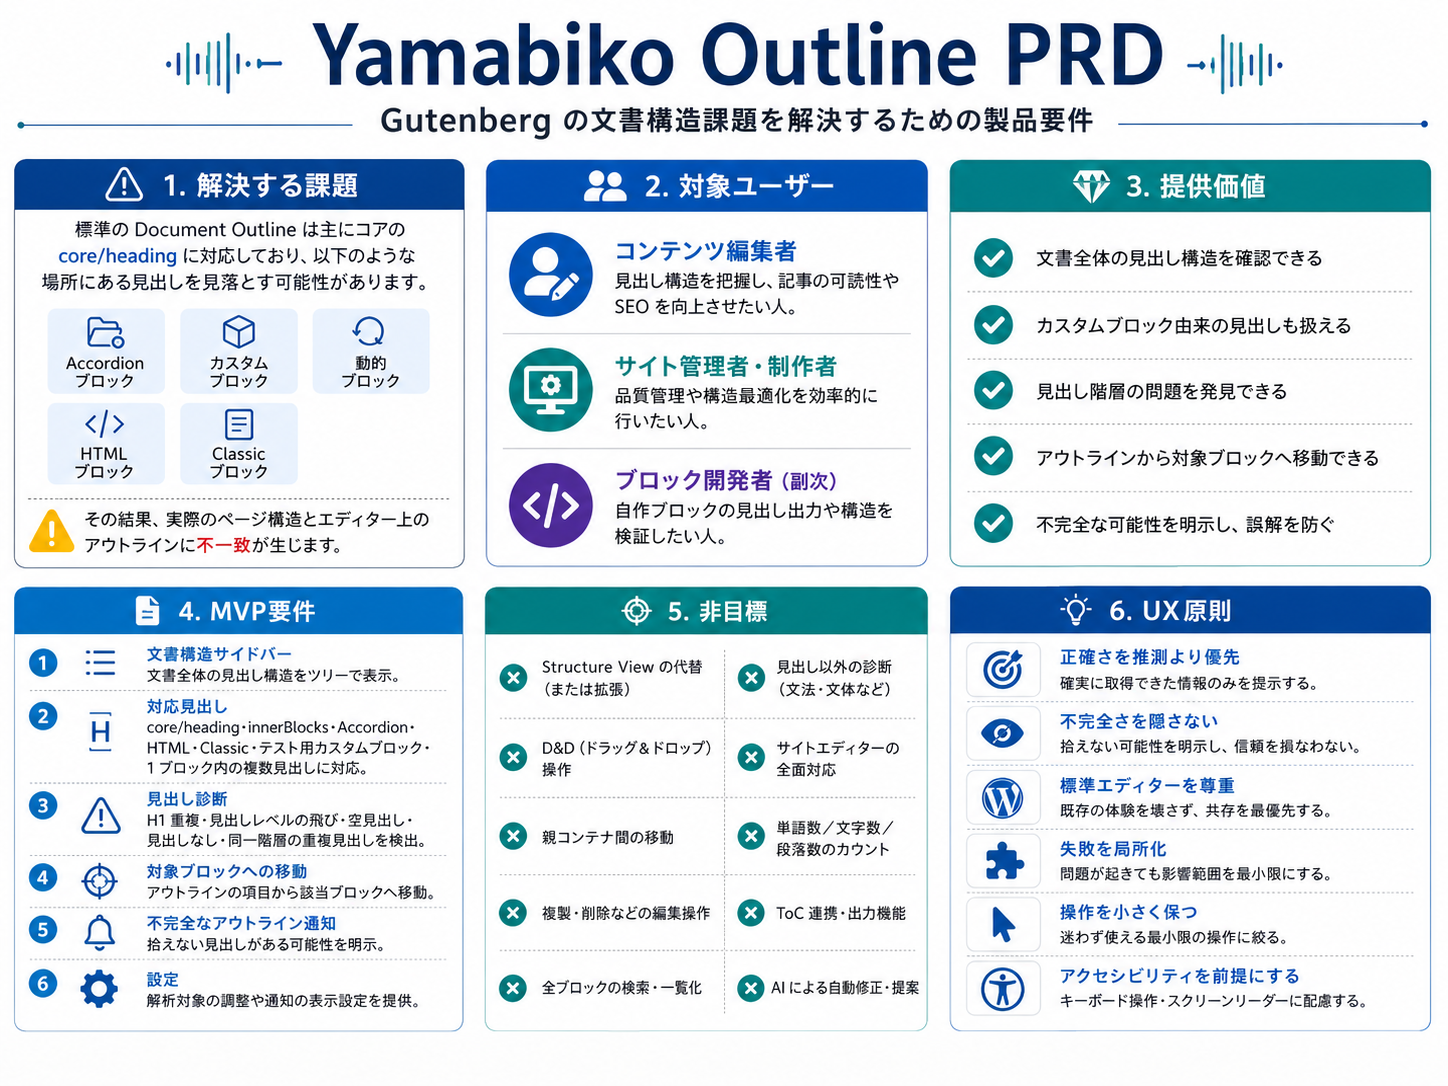
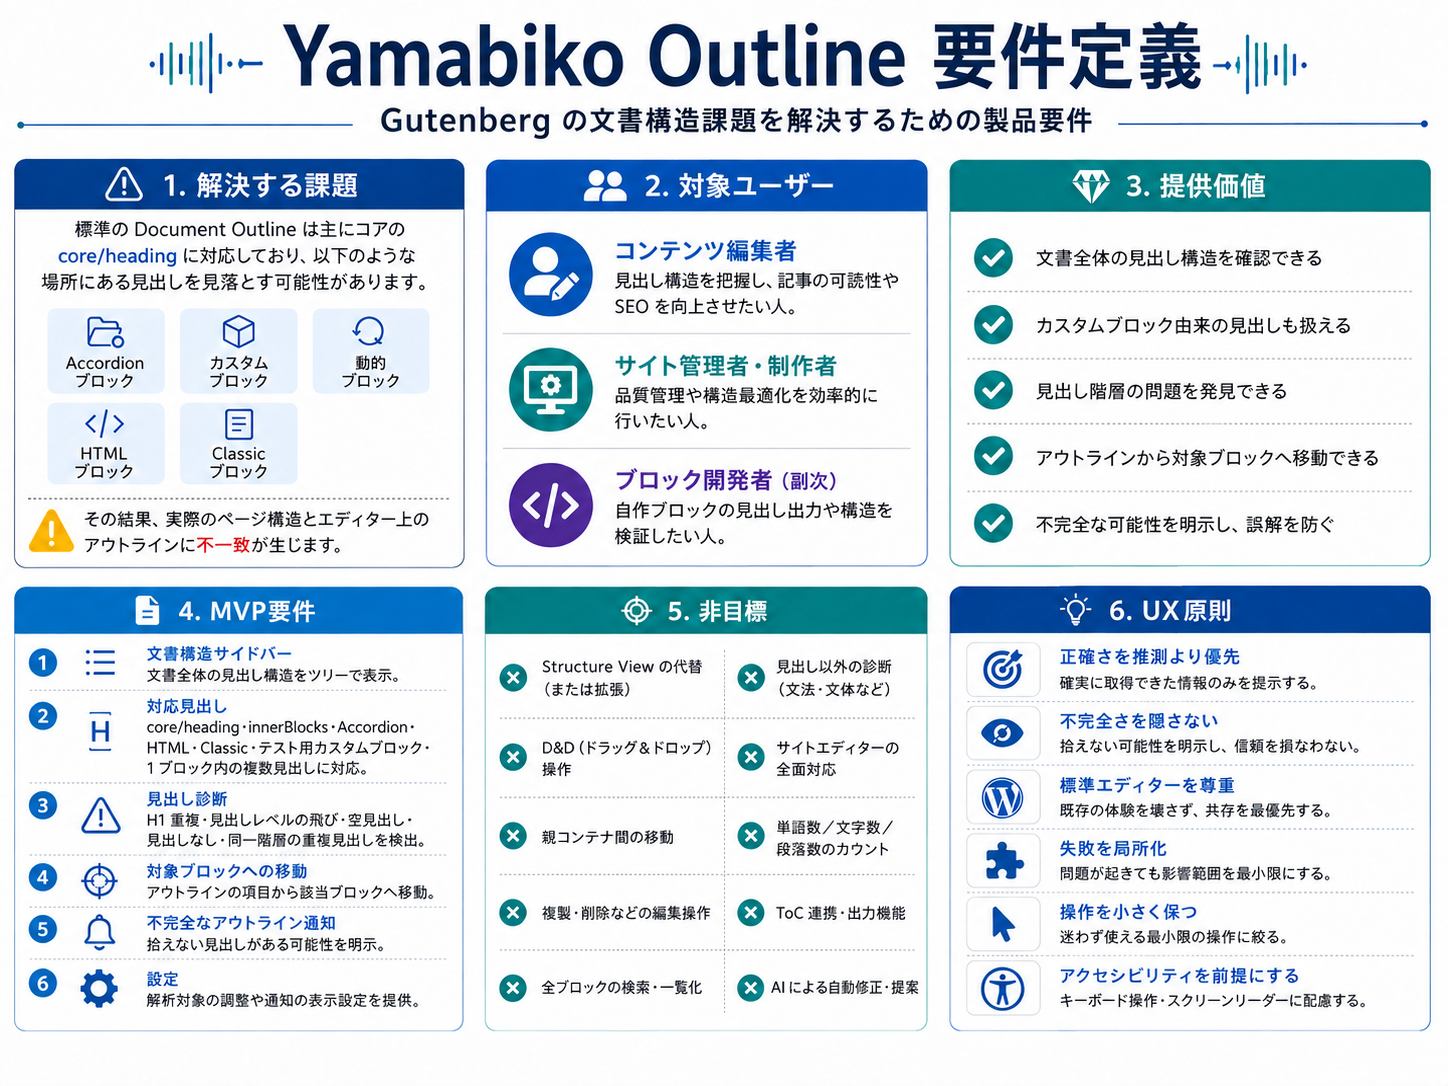
Add outline images and update requirements and design documents

diff --git a/docs/design/outline/outline-high-level-design.md b/docs/design/outline/outline-high-level-design.md
@@ -2,15 +2,15 @@
 
 ## 1. 文書情報
 
-| 項目 | 内容 |
-| --- | --- |
-| 製品名 | Yamabiko Outline |
-| 対象 | Gutenberg ブロックエディター |
-| 文書種別 | 基本設計書 |
-| バージョン | 0.8 |
-| ステータス | 基本設計 |
-| 関連PRD | `../requirements/yamabiko-outline-requirements.md` v0.2 |
-| 対象課題 | Gutenberg Issue #71699 |
+| 項目       | 内容                                                   |
+| ---------- | ------------------------------------------------------ |
+| 製品名     | Yamabiko Outline                                       |
+| 対象       | Gutenberg ブロックエディター                           |
+| 文書種別   | 基本設計書                                             |
+| バージョン | 0.8                                                    |
+| ステータス | 基本設計                                               |
+| 関連PRD    | `../requirements/outline/outline-requirements.md` v0.2 |
+| 対象課題   | Gutenberg Issue #71699                                 |
 
 ## 2. 文書の目的
 
@@ -132,22 +132,22 @@ type OutlineNode = {
   blockName: string;
   level: 1 | 2 | 3 | 4 | 5 | 6;
   text: string;
-  source: 'core-heading' | 'inner-block' | 'adapter' | 'html';
+  source: "core-heading" | "inner-block" | "adapter" | "html";
   navigable: boolean;
 };
 ```
 
 各項目の用途は次のとおりとする。
 
-| 項目 | 用途 |
-| --- | --- |
-| `id` | アウトライン項目の一意な識別 |
-| `blockClientId` | 元ブロックの選択 |
-| `blockName` | アダプター判定と通知 |
-| `level` | 見出し階層の生成と診断 |
-| `text` | サイドバー表示 |
-| `source` | 取得元の識別とデバッグ |
-| `navigable` | 対象ブロックへの移動可否 |
+| 項目            | 用途                         |
+| --------------- | ---------------------------- |
+| `id`            | アウトライン項目の一意な識別 |
+| `blockClientId` | 元ブロックの選択             |
+| `blockName`     | アダプター判定と通知         |
+| `level`         | 見出し階層の生成と診断       |
+| `text`          | サイドバー表示               |
+| `source`        | 取得元の識別とデバッグ       |
+| `navigable`     | 対象ブロックへの移動可否     |
 
 1つのブロックが複数の見出しを持つ場合は、見出しごとに一意な`id`を持つ複数の`OutlineNode`を生成する。
 
@@ -181,7 +181,7 @@ type OutlineNode = {
 
 ```ts
 registerYamabikoOutlineAdapter({
-  blockName: 'example/faq',
+  blockName: "example/faq",
 
   getOutlineNodes(block) {
     return [
@@ -251,12 +251,12 @@ PHPの`render_callback`をアウトライン更新のたびに実行し、生成
 
 次は組み込みResolverまたはParserで処理する。
 
-| ブロック | 処理 |
-| --- | --- |
+| ブロック                 | 処理                                 |
+| ------------------------ | ------------------------------------ |
 | `core/accordion-heading` | 属性から見出しレベルとテキストを取得 |
-| `core/html` | 静的HTMLからH1からH6を抽出 |
-| `core/freeform` | 静的HTMLからH1からH6を抽出 |
-| テスト用カスタムブロック | 内部アダプターで取得 |
+| `core/html`              | 静的HTMLからH1からH6を抽出           |
+| `core/freeform`          | 静的HTMLからH1からH6を抽出           |
+| テスト用カスタムブロック | 内部アダプターで取得                 |
 
 ### 7.3 制限付き処理
 
@@ -310,13 +310,13 @@ PHPの`render_callback`をアウトライン更新のたびに実行し、生成
 
 ### 9.2 診断レベル
 
-| 診断 | レベル |
-| --- | --- |
-| H1の複数使用 | 警告 |
-| 見出しレベルの飛び | 警告 |
-| 空見出し | 警告 |
-| 見出しなし | 情報 |
-| 同一階層の重複見出し | 提案 |
+| 診断                 | レベル |
+| -------------------- | ------ |
+| H1の複数使用         | 警告   |
+| 見出しレベルの飛び   | 警告   |
+| 空見出し             | 警告   |
+| 見出しなし           | 情報   |
+| 同一階層の重複見出し | 提案   |
 
 自動修正は行わない。
 
@@ -362,15 +362,15 @@ PHPの`render_callback`をアウトライン更新のたびに実行し、生成
 
 ### 11.2 責務
 
-| モジュール | 責務 |
-| --- | --- |
-| Document Outline Sidebar | アウトライン、診断、通知の表示 |
-| Block Tree Selector | Data Storeからのブロックツリー取得 |
-| Standard Heading Resolver | 標準Headingの変換 |
-| Outline Adapter Registry | ブロック別アダプターの管理 |
-| HTML Heading Parser | 静的HTMLからの見出し抽出 |
-| Outline Diagnostics | 見出し構造の診断 |
-| Block Navigator | 選択、スクロール、フォーカス |
+| モジュール                | 責務                               |
+| ------------------------- | ---------------------------------- |
+| Document Outline Sidebar  | アウトライン、診断、通知の表示     |
+| Block Tree Selector       | Data Storeからのブロックツリー取得 |
+| Standard Heading Resolver | 標準Headingの変換                  |
+| Outline Adapter Registry  | ブロック別アダプターの管理         |
+| HTML Heading Parser       | 静的HTMLからの見出し抽出           |
+| Outline Diagnostics       | 見出し構造の診断                   |
+| Block Navigator           | 選択、スクロール、フォーカス       |
 
 ## 12. 状態管理と更新
 

diff --git a/docs/requirements/outline/outline-requirements.md b/docs/requirements/outline/outline-requirements.md
@@ -2,16 +2,16 @@
 
 ## 1. 文書情報
 
-| 項目 | 内容 |
-| --- | --- |
-| 製品名 | Yamabiko Outline |
-| 文書種別 | Product Requirements Document |
-| バージョン | 0.2 |
-| ステータス | Draft |
-| 作成日 | 2026-08-01 |
-| 対象 | Gutenberg ブロックエディター |
-| 関連文書 | `../design/yamabiko-outline-high-level-design.md` v0.8 |
-| 参照課題 | WordPress/gutenberg Issue #71699 |
+| 項目       | 内容                                                  |
+| ---------- | ----------------------------------------------------- |
+| 製品名     | Yamabiko Outline                                      |
+| 文書種別   | Product Requirements Document                         |
+| バージョン | 0.2                                                   |
+| ステータス | Draft                                                 |
+| 作成日     | 2026-08-01                                            |
+| 対象       | Gutenberg ブロックエディター                          |
+| 関連文書   | `../design/outline/outline-high-level-design.md` v0.8 |
+| 参照課題   | WordPress/gutenberg Issue #71699                      |
 
 ## 2. エグゼクティブサマリー
 
@@ -365,6 +365,6 @@ MVPは、次を満たしたとき完成とする。
 
 ## 18. 参照資料
 
-- `../design/yamabiko-outline-high-level-design.md` v0.6
+- `../design/outline/outline-high-level-design.md` v0.8
 - WordPress/gutenberg Issue #71699  
   https://github.com/WordPress/gutenberg/issues/71699
